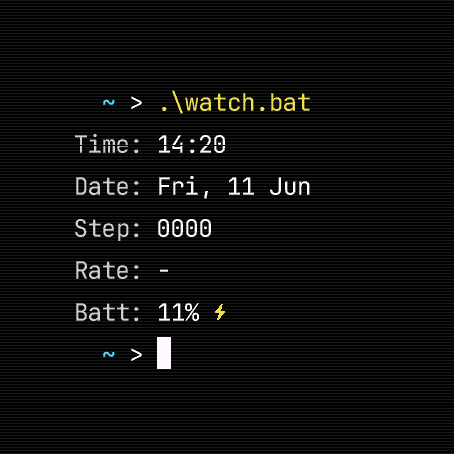
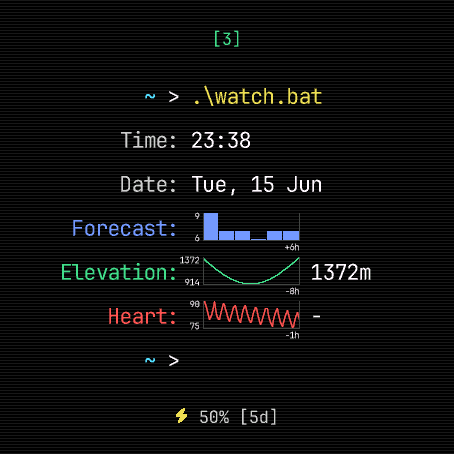
0.8.0

diff --git a/README.md b/README.md
@@ -1,38 +1,45 @@
 # TerminalWatchface
 
-A retro terminal-style watchface for the **Garmin Fenix 8 47mm AMOLED**. Displays data as monospaced label/value pairs in a command-line aesthetic, complete with a blinking cursor, optional scanlines, and a battery footer.
+A retro terminal-style watchface for the **Garmin Fenix 8 47mm AMOLED**. All data is rendered as monospaced label/value pairs in a command-line aesthetic — complete with a blinking cursor, optional CRT scanlines, and inline sensor history graphs.
+
+![TerminalWatchface hero](hero.png)
 
 ---
 
 ## Features
 
-- Monospace terminal layout with a blinking cursor and shell prompt
-- 5 configurable data rows: time and date are always shown, lines 3-5 are fully customizable
-- Each configurable line supports up to 3 rotation slots that cycle automatically on a set interval
-- Battery footer with a bolt icon while charging, percentage and estimated days remaining
+- Monospace terminal layout with shell prompt and blinking cursor
+- **5 data rows** — time and date are always shown; lines 3–5 are fully configurable
+- Each configurable line has **3 rotation slots** that cycle automatically on a set interval
+- **Inline sensor graphs** — line, bar, or dual-overlay charts with configurable timeframe and color
+- **34 data fields** across activity, health, and weather categories
+- Battery footer with bolt icon while charging, percentage, and estimated days remaining
 - Notification count badge in the header
-- CRT scanline overlay effect (4 intensity levels)
-- 3 font families in 3 sizes each
+- CRT scanline overlay (4 intensity levels)
+- **4 font families** in 3 sizes each
+- **20 colors** for independent label and value styling per slot
+- Show seconds toggle and optional year in date
+- Metric and imperial unit support
 
 ---
 
 ## Layout
 
 ```
-         [2]                 <- notification count (hidden when 0)
+           [2]                       ← notification count (hidden when 0)
 
 ~ > .\watch.bat
 
-Time : 14:32
-Date : Thu, 12 Jun
+Time  : 14:32
+Date  : Thu, 12 Jun
 
-Temp : 18.5°C [↓12] [↑24]    <- line 3 (rotates)
-Step : 007823 [GOAL]         <- line 4 (rotates)
-Rate : 72                    <- line 5 (rotates)
+Heart : 72 bpm                       ← line 3 (rotates between up to 3 fields)
+Steps : 007823 [GOAL]                ← line 4
+Temp  : 18.5°C [↓12] [↑24]          ← line 5
 
-~ > _                        <- blinking cursor
+~ > _                                ← blinking cursor
 
-        ⚡ 74% [6d]          <- battery footer
+          ⚡ 74% [6d]               ← battery footer
 ```
 
 ---
@@ -40,61 +47,137 @@ Rate : 72                    <- line 5 (rotates)
 ## Settings
 
 ### Appearance
-| Setting | Options |
-|---|---|
-| Font | JetBrains Mono, Space Mono, Fira Code Mono |
-| Font Size | Small, Medium, Large |
-| Scanlines | Off, Subtle, Medium, Strong |
+
+| Setting    | Options                                               |
+|------------|-------------------------------------------------------|
+| Font       | JetBrains Mono, Space Mono, Fira Code Mono, NB Architekt |
+| Font Size  | Small, Medium, Large                                  |
+| Scanlines  | Off, Subtle, Medium, Strong                           |
 
 ### Display
-| Setting | Options |
-|---|---|
-| Date Format | Day Month (Mon, 1 Jan), ISO (YYYY-MM-DD), DD-MM-YYYY, MM-DD-YYYY |
-| Rotate Every | 3s, 5s, 10s, 15s, 30s, 1 min |
 
-### Lines 1-2 (Time & Date)
-Label and value color can be set independently.
+| Setting        | Options                                                                    |
+|----------------|----------------------------------------------------------------------------|
+| Show Seconds   | On / Off                                                                   |
+| Show Year      | On / Off — appends year to compatible date formats                         |
+| Date Format    | Day Month *(Mon, 12 Jan)*, ISO *(2025-06-12)*, DD-MM-YYYY, MM-DD-YYYY, Day+Num *(Thu 12)*, D Mon *(12 Jan)* |
+| Rotate Every   | 3s, 5s, 10s, 15s, 30s, 1 min                                              |
 
-### Lines 3-5 (Configurable)
-Each line has three rotation slots — Primary, R2, and R3. The active slot cycles through on the rotate interval. If R2 or R3 are set to None, those slots are skipped. Each slot has its own field, label color, and value color.
+### Color (Lines 1–2)
 
-#### Available data fields
-| Field | Label | Example |
-|---|---|---|
-| Steps | `Step` | `007823 [GOAL]` |
-| Heart Rate | `Rate` | `72` |
-| Calories | `Kcal` | `1840` |
-| Distance | `Dist` | `4.32km` |
-| Altitude | `Alti` | `124m` |
-| Stairs | `Strs` | `↑8  ↓3` |
-| Blood Oxygen | `SpO2` | `97%` |
-| Intensity Mins | `Intv` | `142` |
-| Weather: Temperature | `Temp` | `18.5°C` |
-| Weather: Feels Like | `Feel` | `16.2°C` |
-| Weather: Precipitation | `Rain` | `20%` |
-| Weather: Wind | `Wind` | `14km/h NW` |
-| Weather: UV Index | `UVIn` | `3` |
-| Weather: Condition | `Cond` | `[PCLOUD]` |
-| Weather: Temp + Condition | `Temp` | `18.5°C [CLEAR]` |
-| Weather: Temp + Min/Max | `Temp` | `18.5°C [↓12] [↑24]` |
-| Weather: Condition + Rain | `Cond` | `[RAIN] 60%` |
-| Weather: Temp + Wind | `Temp` | `18.5°C 14km/h NW` |
+Label and value color can be set independently for the Time and Date rows.
 
-#### Available colors
-White, Green, Cyan, Yellow, Orange, Red, Blue, Magenta, Light Grey, Pink, Lime, Teal, Purple, Dark Grey, Sky Blue
+### Lines 3–5 (Configurable)
+
+Each line has three rotation slots — **Primary**, **R2**, and **R3**. The active slot cycles on the rotate interval; slots set to *None* are skipped. Each slot has its own field, label color, and value color.
+
+---
+
+## Data Fields
+
+### Activity & Health
+
+| Field                | Label       | Example         |
+|----------------------|-------------|-----------------|
+| Steps                | `Steps`     | `007823 [GOAL]` |
+| Heart Rate           | `Heart`     | `72 bpm`        |
+| Avg Heart Rate       | `Avg HR`    | `68 bpm`        |
+| Max Heart Rate       | `Max HR`    | `185 bpm`       |
+| Calories             | `Calories`  | `1840 kcal`     |
+| Active Calories      | `Act Cals`  | `620 kcal`      |
+| Distance             | `Distance`  | `4.32km`        |
+| Altitude             | `Altitude`  | `124m`          |
+| Elevation (sensor)   | `Elevation` | `126m`          |
+| Floors               | `Floors`    | `↑8  ↓3`        |
+| Intensity Mins (wk)  | `Int Mins`  | `142`           |
+| Active Mins (day)    | `Act Mins`  | `38`            |
+| Move Bar             | `Move Bar`  | `2/5`           |
+| Body Battery         | `Body Bat`  | `74%`           |
+| Stress               | `Stress`    | `32`            |
+| Blood Oxygen (SpO2)  | `SpO2`      | `97%`           |
+| Respiration Rate     | `Resp Rate` | `14/m`          |
+| Recovery Time        | `Recovery`  | `18h`           |
+| Wrist Temperature    | `Wrist Temp`| `36.5C`         |
+| Barometric Pressure  | `Pressure`  | `1013.2hPa`     |
+
+### Weather
+
+| Field                   | Label    | Example                    |
+|-------------------------|----------|----------------------------|
+| Temperature             | `Temp`   | `18.5°C`                   |
+| Feels Like              | `Feels Like` | `16.2°C`               |
+| Temperature + Condition | `Temp`   | `18.5°C [CLEAR]`           |
+| Temperature + Min/Max   | `Temp`   | `18.5°C [↓12] [↑24]`      |
+| Temperature + Wind      | `Temp`   | `18.5°C 14km/h NW`         |
+| Condition               | `Weather`| `[PCLOUD]`                 |
+| Condition + Precip      | `Weather`| `[RAIN] 60%`               |
+| Precipitation           | `Precip` | `20%`                      |
+| Wind                    | `Wind`   | `14km/h NW`                |
+| UV Index                | `UV Index`| `3`                       |
+| Hourly Forecast (graph) | `Forecast`| *(temperature chart)*      |
+
+---
+
+## Graphs
+
+Certain fields can be displayed as **inline sensor history charts** instead of a single value. When a graph view is active, a mini chart is drawn to the right of the label for the configured timeframe.
+
+### Graph-capable fields
+
+| Field            | View Modes                                          |
+|------------------|-----------------------------------------------------|
+| Heart Rate       | Value, Line Graph, Graph + Value, Bar Graph, Dual Graph |
+| Body Battery     | Value, Line Graph, Graph + Value, Bar Graph, Dual Graph |
+| Stress           | Value, Line Graph, Graph + Value, Bar Graph, Dual Graph |
+| Blood Oxygen     | Value, Line Graph, Graph + Value, Bar Graph, Dual Graph |
+| Wrist Temp       | Value, Line Graph, Graph + Value, Bar Graph, Dual Graph |
+| Elevation        | Value, Line Graph, Graph + Value, Bar Graph, Dual Graph |
+| Pressure         | Value, Line Graph, Graph + Value, Bar Graph, Dual Graph |
+| Weather Forecast | Line Graph, Graph + Value, Bar Graph                |
+
+### Graph settings (per field)
+
+| Setting          | Options                                      |
+|------------------|----------------------------------------------|
+| View Mode        | Value, Line Graph, Graph + Value, Bar Graph, Dual Graph |
+| Time Frame       | 15m, 30m, 1h, 2h, 4h, 8h, 24h              |
+| Line Color       | Any of the 20 available colors               |
+
+**Dual Graph** overlays two sensor history lines on a shared axis. A secondary field and color can be configured independently, with min/max labels on both sides.
+
+**Weather Forecast** pulls up to 24 hours of hourly temperature data and renders it as a line or bar graph with configurable timeframe (e.g. `+6h`).
 
 ---
 
 ## Battery Footer
 
-| State | Display |
-|---|---|
-| Charging | bolt icon + `74% [6d]` |
-| Normal | `74% [6d]` |
-| Low (≤10%) | `8%` in red |
-| Full (100%) | `100%` in green |
+| State          | Display                  |
+|----------------|--------------------------|
+| Normal         | `74% [6d]`               |
+| Charging       | `⚡ 74% [6d]`            |
+| Low (≤ 10%)    | `8%` in red              |
+| Full (100%)    | `100%` in green          |
 
-Days remaining is shown when the device can estimate it. The bolt icon is always shown while charging regardless of percentage.
+Days remaining is shown when the device can estimate it. The bolt icon is always shown while charging.
+
+---
+
+## Colors
+
+20 colors are available for independent label and value styling on each rotation slot:
+
+| #  | Name        | #  | Name        |
+|----|-------------|----|-------------|
+| 0  | White       | 10 | Lime        |
+| 1  | Green       | 11 | Teal        |
+| 2  | Cyan        | 12 | Purple      |
+| 3  | Yellow      | 13 | Dark Grey   |
+| 4  | Orange      | 14 | Sky Blue    |
+| 5  | Red         | 15 | Amber       |
+| 6  | Blue        | 16 | Emerald     |
+| 7  | Magenta     | 17 | Turquoise   |
+| 8  | Light Grey  | 18 | Coral       |
+| 9  | Pink        | 19 | Violet      |
 
 ---
 
